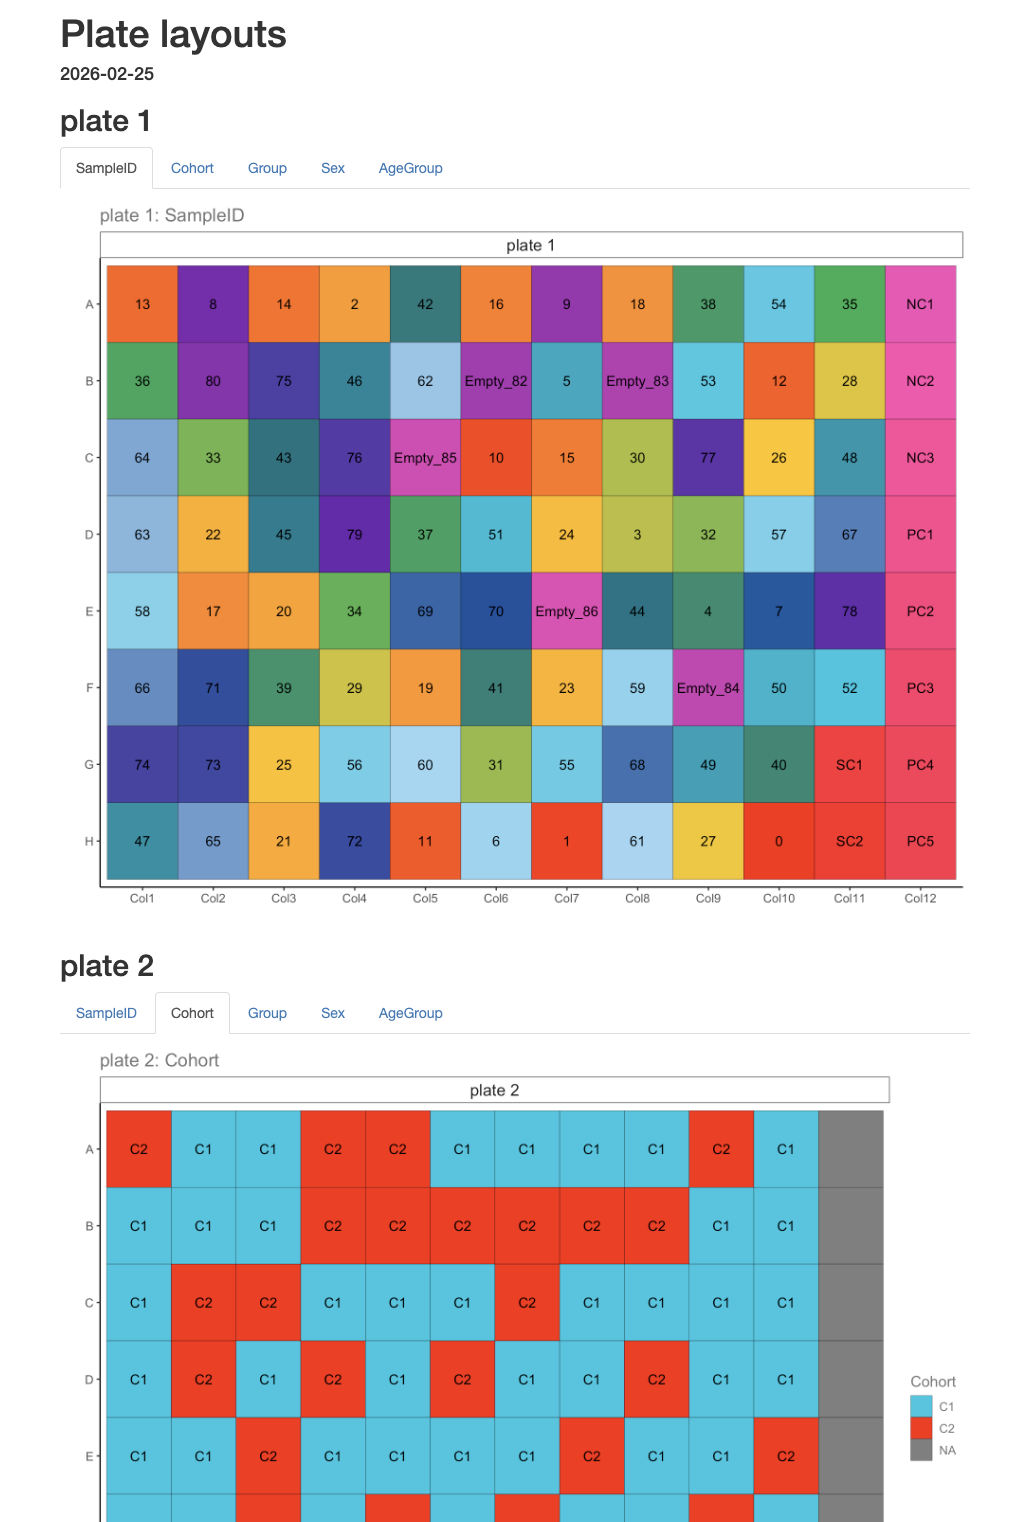
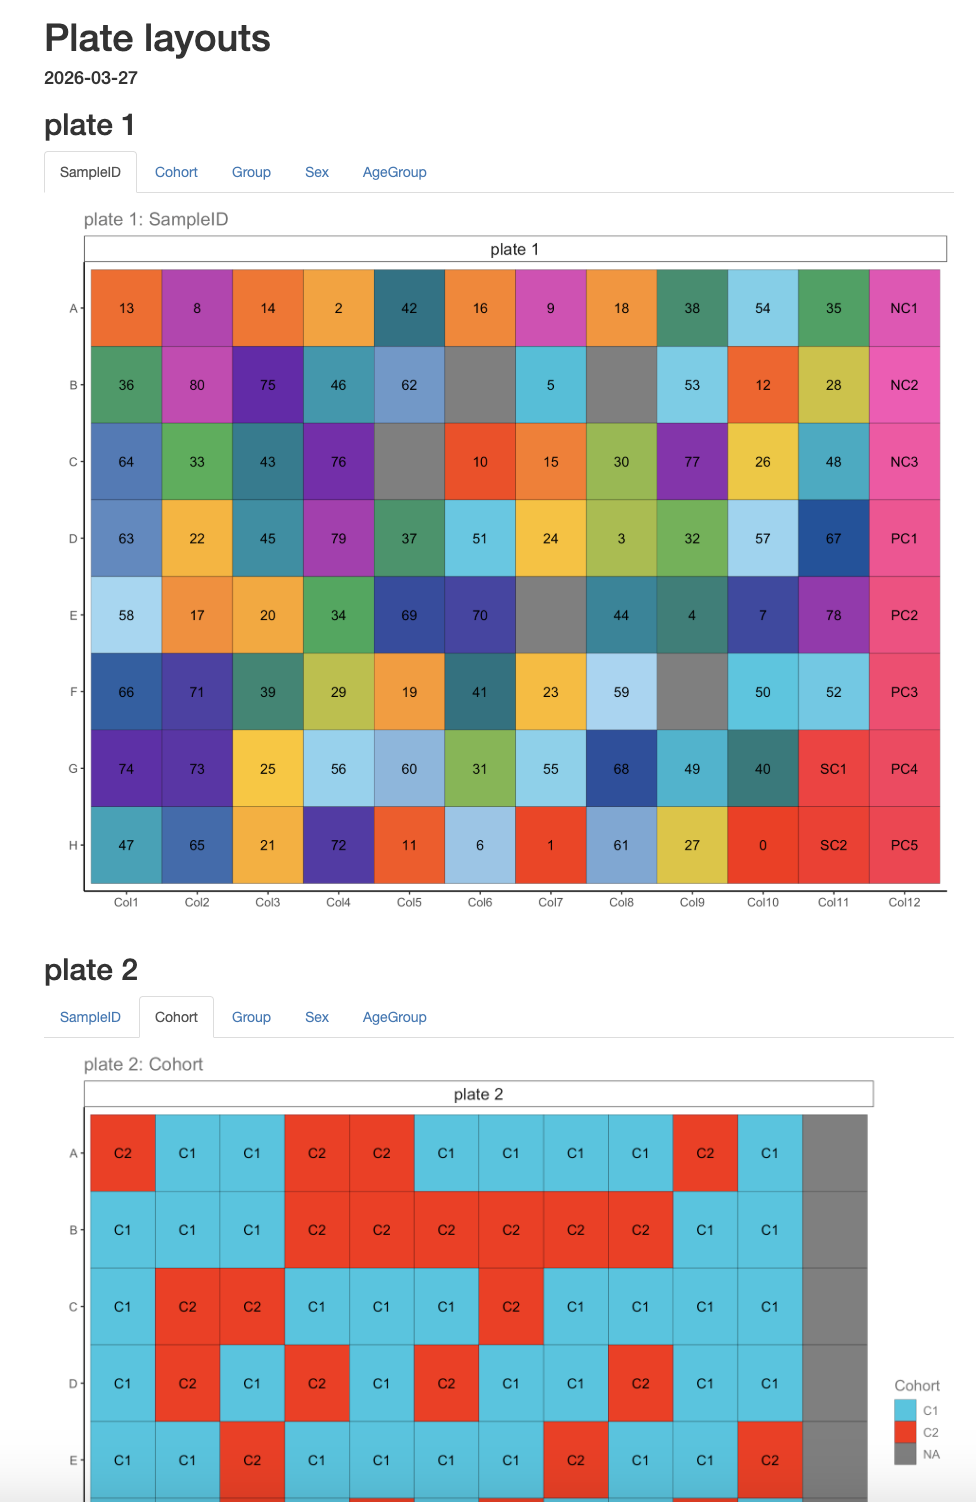
Rebuild README

diff --git a/README.md b/README.md
@@ -59,7 +59,7 @@ easyplater_manifest <- make_easyplater_design(
   manifest_df = input_manifest,
   columns_for_scoring = c("Cohort","Group","Sex","AgeGroup"),
   column_weights = c(5, 5, 10, 4),
-  cols_to_categorize = list(c("Age", 10, NULL, "AgeGroup")),
+  cols_to_categorize = list(c("Age", 10, "AgeGroup")),
   plate_size = 96
 )
 #> [1] "[:::] plate 1 [:::]"
